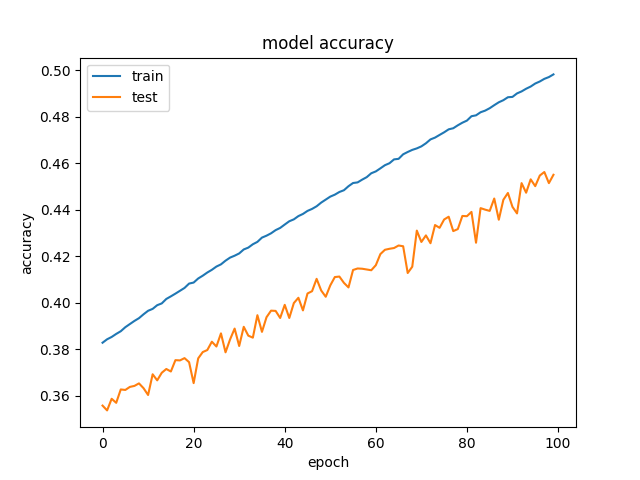
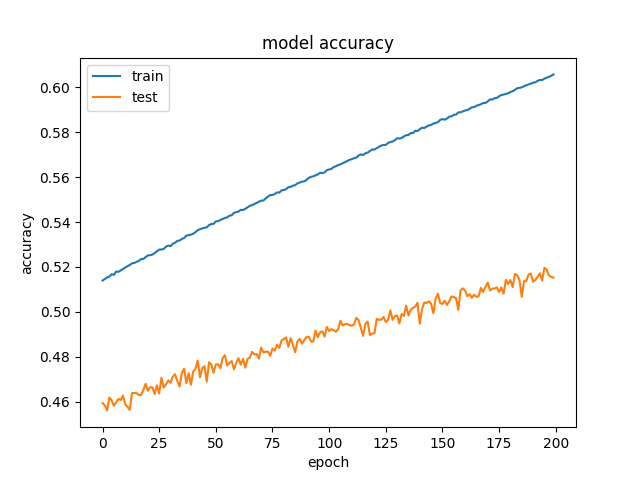
200 epochs

diff --git a/MN_Model2.py b/MN_Model2.py
@@ -25,10 +25,10 @@ ap.add_argument('-g', '--gpus', type=int, default=1, help='# of GPUs to use for 
 args = vars(ap.parse_args())
 G = args["gpus"]
 
-NUM_EPOCHS = 100
+NUM_EPOCHS = 200
 INIT_LR = 1e-5
 lr_decay = 0
-training_batch_size = 128
+training_batch_size = 256
 # samples_per_checkpoint = 1000
 validation_split = 0.01
 data_percent = 1
